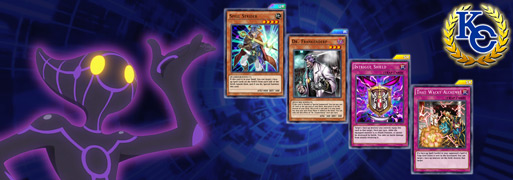
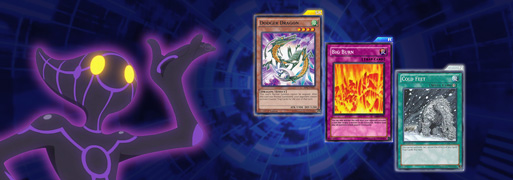
Datamined Discoveries! - April

diff --git a/_posts/content/news/2018/04/2018-04-05-datamined-discoveries.md b/_posts/content/news/2018/04/2018-04-05-datamined-discoveries.md
@@ -1,6 +1,6 @@
 ---
 layout: blog
-date: 2018-04-05 23:00:00 +0100
+date: 2018-04-18 18:00:00 +0100
 title: Datamined Discoveries! - April
 author: Yami Hammy
 image: /img/content/news/2018/04/datamined-discoveries/thumbnail.jpg
@@ -13,6 +13,14 @@ permalink: /news/april-2018/datamined-discoveries/
 
 {% include heading.html title=page.title author=page.author %}
 
+- [April 18th Update](#180)
+    - [New Ranked Tickets](#181)
+    - [Top Player Council Thoughts](#182)
+        - [Dodger Dragon (SR)](#182a)
+        - [Big Burn (R)](#182b)
+        - [Cold Feet (N)](#182c)
+- [April 13th Update](#130)
+    - [Yami Marik Event Leaks](#131)
 - [April 5th Update](#50)
     - [New Cards](#51)
     - [Top Player Council Thoughts](#52)
@@ -21,6 +29,104 @@ permalink: /news/april-2018/datamined-discoveries/
         - [That Wacky Alchemy! (SR)](#523)
         - [Dr. Frankenderp (R)](#524)
     - [KC Cup Celebration Sale](#53)
+
+---
+
+<a name="180"></a>
+## April 18th Update
+
+<br>
+
+Our resident dataminer, XOF, has found details of next months Ranked Reward tickets!
+
+<a name="181"></a>
+### New Ranked Tickets
+
+[deck](Dodger Dragon; Big Burn; Cold Feet)
+
+<a name="182"></a>
+### [Top Player Council](/top-player-council/) Thoughts
+
+<a name="182a"></a>
+#### {Dodger Dragon} (SR Ticket)
+
+**[Xanxus](/top-player-council/Xanxus/)** says:
+- Trash!
+
+**[》3K《 All Day](/top-player-council/3KAllDay/)** says:
+- More of an Auto Duel Deck card then meta, so pretty bad.
+
+**[SelectMaple](/top-player-council/SelectMaple/)** says:
+- Can dodge {Ultimate Providence} and {Divine Wrath}, but this card takes away your Normal Summon. It's just another 1900 Dragon beater with a low graded effect. Cannot see this being good in competitive play.
+
+**[Glading](/top-player-council/Glading/)** says:
+- Try {Hey, Trunade!} instead?
+
+**[BuilttoTilt](/top-player-council/BuilttoTilt/)** says:
+- Very limited uses, it's an extremely niche card that likely won't see any competitive play.
+
+---
+
+<a name="182b"></a>
+#### {Big Burn} (R Ticket)
+
+**[Xanxus](/top-player-council/Xanxus/)** says:
+- Trash, but maybe future potential as Side Deck card.
+
+**[》3K《 All Day](/top-player-council/3KAllDay/)** says:
+- Interesting card, shows potential. It may be a good Side Deck card. 
+
+**[SelectMaple](/top-player-council/SelectMaple/)** says:
+- I would use {Different Dimension Ground} or {Crevice Into The Different Dimension} over {Big Burn}.
+
+**[Glading](/top-player-council/Glading/)** says:
+- it is a good Side Deck card against [Archfiends](/tier-list/deck-types/archfiends/) right now and it has potential for future metas.
+
+**[BuilttoTilt](/top-player-council/BuilttoTilt/)** says:
+- This card is a nice Side Deck option against Graveyard oriented decks such as [Archfiends](/tier-list/deck-types/archfiends/) to counter cards like {Call of the Archfiend}. It has a niche over cards like {Foolish Return} and {Disappear}, as it banishes all monsters from the Graveyard making all other revival cards in the deck useless.
+
+---
+
+<a name="182c"></a>
+#### {Cold Feet} (N Ticket)
+
+**[Xanxus](/top-player-council/Xanxus/)** says:
+- Trash, but nice artwork.
+
+**[》3K《 All Day](/top-player-council/3KAllDay/)** says:
+- OMEGALUL 🚮
+
+**[SelectMaple](/top-player-council/SelectMaple/)** says:
+- Trash!
+
+**[Glading](/top-player-council/Glading/)** says:
+- The perfect card for Guns to make a video.
+
+**[BuilttoTilt](/top-player-council/BuilttoTilt/)** says:
+- Pretty God damn useless!
+
+---
+
+<a name="130"></a>
+## April 13th Update
+
+<br>
+
+***This is not official datamined information but it has sufficient credibility***
+
+<a name="131"></a>
+### [Yami Marik Event](/news/april-2018/in-game-updates/#12) Leaks
+
+An image from a Japanese magazine has been circulating online revealing that {Granadora} will be a new event drop.
+
+[slider](/img/content/news/2018/04/datamined-discoveries/magazine.jpg)
+
+<br>
+
+Also, one of the skills that we revealed in last months [Datamined Discoveries article](/news/march-2018/datamined-discoveries/), 'Power of the Tributed' has been confirmed to be the new skill for Yami Marik!  
+
+[w50]
+![](/img/content/news/2018/03/datamined-discoveries/skill-power-of-the-tributed.png)
 
 ---
 
@@ -46,22 +152,22 @@ Thanks to Superforms's quick thinking we have details of the upcoming Duel-A-Tho
 <a name="521"></a>
 #### {Spell Strider} (UR)
 
-**[Superforms](/authors/superforms/)** says:
+**[Superforms](/top-player-council/superforms/)** says:
 - This card is most relevant as a way to trade Field Spells (like {Straight to the Grave} [Red-Eyes Zombies](/tier-list/deck-types/red-eyes-zombies/) against {Mythic Depths} [Sea Stealth Attack](/tier-list/deck-types/sea-stealth-attack/). Not a ton of other use right now.
 
-**[》3K《 All Day](/authors/3KAllDay/)** says:
+**[》3K《 All Day](/top-player-council/3KAllDay/)** says:
 - Interesting card but too hard to utilize. Building a deck around {Big Bang Shot} still requires a second spell. This will likely be used for a Field Spell for Field Spell trade off and not that great.
 
-**[Glading](/authors/Glading/)** says:
+**[Glading](/top-player-council/Glading/)** says:
 - Maybe good against [Sea Stealth Attack](/tier-list/deck-types/sea-stealth-attack/) that you can banish your Field Spell and your opponent's {Umi}.
 
-**[Xanxus](/authors/Xanxus/)** says:
+**[Xanxus](/top-player-council/Xanxus/)** says:
 - At the moment very good against [Sea Stealth Attack](/tier-list/deck-types/sea-stealth-attack/) decks, but it only makes sense, if you play a 'Field Spell Skill' or other decks like Wallet Control, where you have good access to permanent spell cards. Mostly it's only a side deck option or most likely a tech. Perhaps this card has more potential in future (I can imagine this card in Crystal Beast decks, after they get more support).
 
 **[Whybona](/top-player-council/whybona/)** says:
 - Good against [Sea Stealth Attack](/tier-list/deck-types/sea-stealth-attack/) but irrelevant in the current meta outside of that, it's also situational for your own deck to be running face up spells.
 
-**[Machdragon](/authors/Machdragon/)** says:
+**[Machdragon](/top-player-council/Machdragon/)** says:
 - A decent side deck alternative to counter Field Spell reliant decks like [Sea Stealth Attack](/tier-list/deck-types/sea-stealth-attack/) if you don't own {Cosmic Cyclone}.
 
 **[MiguelJoker](/top-player-council/migueljoker/)** says:
@@ -72,22 +178,22 @@ Thanks to Superforms's quick thinking we have details of the upcoming Duel-A-Tho
 <a name="522"></a>
 #### {Intrigue Shield} (SR)
 
-**[Superforms](/authors/superforms/)** says:
+**[Superforms](/top-player-council/superforms/)** says:
 - Only being available at 1x hurts this card's potential quite a bit, but it can potentially be used in annoying [Stall](/tier-list/stall-decks/)-type decks with {Duck Dummy} and/or {The Unhappy Girl}. 
 
-**[》3K《 All Day](/authors/3KAllDay/)** says:
+**[》3K《 All Day](/top-player-council/3KAllDay/)** says:
 - This card being 1x might be pretty good. A tech card like {Curse of Anubis} and {Windstorm of Etaqua}. You can slap this on key monsters you don't want destroyed but you'll still be open to {Enemy Controller} tribute-take and {Super Rush Headlong}.
 
-**[Glading](/authors/Glading/)** says:
+**[Glading](/top-player-council/Glading/)** says:
 - No PvP potential!
 
-**[Xanxus](/authors/Xanxus/)** says:
+**[Xanxus](/top-player-council/Xanxus/)** says:
 - This is a Normal Trap card playable with Paleozoics, but I do not see a high potential usage for this card.
 
 **[Whybona](/top-player-council/whybona/)** says:
 - May have some uses in gimmicky decks but likely won't see any competitive use due to the requirement of the monster having to be in Attack position.
 
-**[Machdragon](/authors/Machdragon/)** says:
+**[Machdragon](/top-player-council/Machdragon/)** says:
 - I can see this being played in {The Unhappy Girl} farm decks. Generic once per turn battle protection is also quite good. It provides a nice boost to possible Amazoness decks.
 
 **[MiguelJoker](/top-player-council/migueljoker/)** says:
@@ -99,19 +205,19 @@ Thanks to Superforms's quick thinking we have details of the upcoming Duel-A-Tho
 <a name="523"></a>
 #### {That Wacky Alchemy!} (SR)
 
-**[Superforms](/authors/superforms/)** says:
+**[Superforms](/top-player-council/superforms/)** says:
 - The card most likely to be relevant to top-tier decks. Alchemy works (in addition to other ways) after chains involving your opponent’s Spell cards resolve, meaning you can pop an {Cyber Angel Idaten} after it’s summoned off a non-protecting ritual spell ({Sprite's Blessing} or {Machine Angel Absolute Ritual}) or a {Masked HERO Anki} after it’s summoned off {Mask Change}. Because spells aren’t sent to the grave until after they resolve, you can’t chain to things like {Cosmic Cyclone} (when it’s targeting) or {Hey, Trunade!}. however, neither [Sylvans](/guides/deck-types/sylvans-guide-intro-by-superforms/) nor [Sea Stealth Attack](/tier-list/deck-types/sea-stealth-attack/) (the current [Tier 1](/tier-list/) decks) are particularly hurt by this card, so at present it seems like Side Deck potential at best.
 
-**[》3K《 All Day](/authors/3KAllDay/)** says:
+**[》3K《 All Day](/top-player-council/3KAllDay/)** says:
 - This card might be a hidden gem. {Enemy Controller}, {Super Rush Headlong}, {Mask Change} and many more - it's a good tradeoff. It will especially hurt [Cyber Angels](/guides/deck-types/the-cyber-angels-guide-by-negative1/) after a ritual spell. Probably won't have any effect on [Sylvans](/guides/deck-types/sylvans-guide-intro-by-superforms/) or [Sea Stealth Attack](/tier-list/deck-types/sea-stealth-attack/).
 
-**[Glading](/authors/Glading/)** says:
+**[Glading](/top-player-council/Glading/)** says:
 - You can use this card when you opponent activates a Normal Spell and it's sent to the graveyard but it's still not flexible even in this case.
 
-**[Xanxus](/authors/Xanxus/)** says: 
+**[Xanxus](/top-player-council/Xanxus/)** says: 
 - Nice Side Deck option. I would be amazing if this would work with traps too. Actually, it's a nice card to interrupt Ritual plays (without protection) or against Masked Heroes (an easy +1), but in other top tier matchups it's not that effective.
 
-**[Machdragon](/authors/Machdragon/)** says:
+**[Machdragon](/top-player-council/Machdragon/)** says:
 - Pretty good card, provides much needed 1 for 1 Monster removal for the game and can be activated after the resolution of an opponent’s spell card. Many powerful spell cards such as {Enemy Controller} exist in the current meta so this may see play in Side Decks.
 
 **[MiguelJoker](/top-player-council/migueljoker/)** says:
@@ -122,22 +228,22 @@ Thanks to Superforms's quick thinking we have details of the upcoming Duel-A-Tho
 <a name="524"></a>
 #### {Dr. Frankenderp} (R)
 
-**[Superforms](/authors/superforms/)** says:
+**[Superforms](/top-player-council/superforms/)** says:
 - Bad. It wouldn’t fit into any Psychic decks, and those fell off the [Tier List](/tier-list/) a long time ago.
 
-**[》3K《 All Day](/authors/3KAllDay/)** says:
+**[》3K《 All Day](/top-player-council/3KAllDay/)** says:
 - Trash!
 
-**[Glading](/authors/Glading/)** says:
+**[Glading](/top-player-council/Glading/)** says:
 - No PvP potential.
 
-**[Xanxus](/authors/Xanxus/)** says:
+**[Xanxus](/top-player-council/Xanxus/)** says:
 - Not good at the moment but it maybe has future potential with more support cards.
 
 **[Whybona](/top-player-council/whybona/)** says:
 - Another garbage Psychic Monster to go alongside the mass of useless Psychic Monsters which have been released since {Serene Psychic Witch}.
 
-**[Machdragon](/authors/Machdragon/)** says:
+**[Machdragon](/top-player-council/Machdragon/)** says:
 - This card isn’t great since it uses up your Normal Summon and skips your Draw Phase to activate its effect. Does not have a place in competitive play.
 
 **[MiguelJoker](/top-player-council/migueljoker/)** says:
